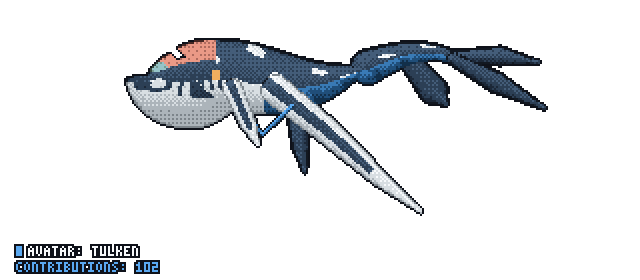
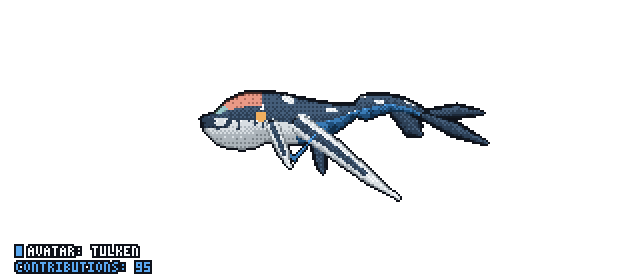
chore(docs): regenerate all stage and camera showcase GIFs with 3D rolling swim loop

Changed region(s): [[0.1875, 0.1143, 0.875, 0.7714], [0.2188, 0.9143, 0.25, 0.9714]]

diff --git a/docs/stage4-female/preview.html b/docs/stage4-female/preview.html
@@ -16,7 +16,7 @@
 </style>
 </head>
 <body>
-<header class="dark"><h1>@demo-user — Adult Female (Sloped Sensor Crest) (102 commits)</h1></header>
+<header class="dark"><h1>@demo-user — Adult Female (Sloped Sensor Crest) (95 commits)</h1></header>
 <section class="dark">
 <h2>GitHub Dark Mode</h2>
 <div class="images">

diff --git a/docs/stage2-yearling/preview.html b/docs/stage2-yearling/preview.html
@@ -16,7 +16,7 @@
 </style>
 </head>
 <body>
-<header class="dark"><h1>@demo-user — Yearling Calf (Kuru Active) (28 commits)</h1></header>
+<header class="dark"><h1>@demo-user — Yearling Calf (Kuru Active) (24 commits)</h1></header>
 <section class="dark">
 <h2>GitHub Dark Mode</h2>
 <div class="images">

diff --git a/docs/stage3-adolescent/preview.html b/docs/stage3-adolescent/preview.html
@@ -16,7 +16,7 @@
 </style>
 </head>
 <body>
-<header class="dark"><h1>@demo-user — Adolescent Tulkun (62 commits)</h1></header>
+<header class="dark"><h1>@demo-user — Adolescent Tulkun (58 commits)</h1></header>
 <section class="dark">
 <h2>GitHub Dark Mode</h2>
 <div class="images">

diff --git a/docs/stage1-calf/preview.html b/docs/stage1-calf/preview.html
@@ -16,7 +16,7 @@
 </style>
 </head>
 <body>
-<header class="dark"><h1>@demo-user — Baby Tulkun Calf (4 commits)</h1></header>
+<header class="dark"><h1>@demo-user — Baby Tulkun Calf (6 commits)</h1></header>
 <section class="dark">
 <h2>GitHub Dark Mode</h2>
 <div class="images">
